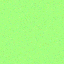
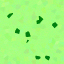
Removed print; Fixed images

diff --git a/03_Snake/main.py b/03_Snake/main.py
@@ -86,7 +86,6 @@ class SnakeHead(pygame.sprite.Sprite):
         global snake_group
         snake_tail.append(SnakeBody(body_image, self.last_x, self.last_y))
         snake_group = pygame.sprite.Group(self, *snake_tail)
-        print(len(snake_group))
 
     def check_if_eating(self):
         for apple in pygame.sprite.spritecollide(self, apple_group, False):
@@ -134,7 +133,7 @@ snake = SnakeHead(head_image, snake_tail)
 
 snake_group = pygame.sprite.Group(snake, *snake_tail)
 
-apple_list = [Apple(apple_image) for _ in range(0, 3)]
+apple_list = [Apple(apple_image) for _ in range(0, 1)]
 
 apple_group = pygame.sprite.Group(*apple_list)
 
